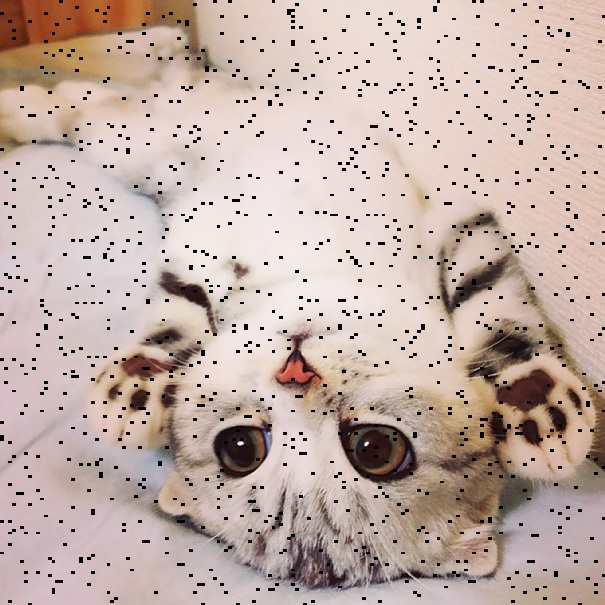
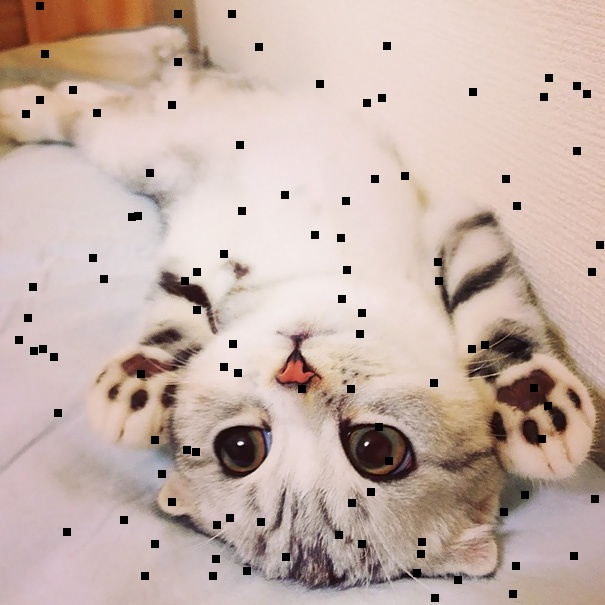
update

diff --git a/index.html b/index.html
@@ -86,6 +86,38 @@ A huge list of many types of data augmentations techniques used for deep learnin
     </li>
     <!----------------------------------------------------------------------------------------------------------------->
     <li class="item_list">
+        <button onclick="show('aug74')">Add Elementwise</button>
+        <div id="aug74" style="display: none;">
+            Add values to the pixels of images with possibly different values for neighbouring pixels.
+            Source: <a target="_blank" href="https://imgaug.readthedocs.io/en/latest/source/overview/arithmetic.html#addelementwise">Imgaug</a><br>
+            <figure>
+                <img src="images/kitty.jpg"> 
+                <figcaption>Original</figcaption>
+            </figure>
+            <figure>
+                <img src="images/kitty_add_elementwise.jpg">
+                <figcaption>Augmentation</figcaption>
+            </figure>  
+        </div>
+    </li>
+    <!----------------------------------------------------------------------------------------------------------------->
+    <li class="item_list">
+        <button onclick="show('aug75')">Additive Laplace Noise</button>
+        <div id="aug75" style="display: none;">
+            Add noise sampled from laplace distributions elementwise to images.
+            Source: <a target="_blank" href="https://imgaug.readthedocs.io/en/latest/source/overview/arithmetic.html#additivelaplacenoise">Imgaug</a><br>
+            <figure>
+                <img src="images/kitty.jpg"> 
+                <figcaption>Original</figcaption>
+            </figure>
+            <figure>
+                <img src="images/kitty_additive_laplace_noise.jpg">
+                <figcaption>Augmentation</figcaption>
+            </figure>  
+        </div>
+    </li>
+    <!----------------------------------------------------------------------------------------------------------------->
+    <li class="item_list">
         <button onclick="show('aug67')">Additive Gaussian Noise</button>
         <div id="aug67" style="display: none;">
             Add noise sampled from gaussian distributions elementwise to images.
@@ -96,6 +128,22 @@ A huge list of many types of data augmentations techniques used for deep learnin
             </figure>
             <figure>
                 <img src="images/kitty_additive_gaussian_noise.jpg">
+                <figcaption>Augmentation</figcaption>
+            </figure>  
+        </div>
+    </li>
+    <!----------------------------------------------------------------------------------------------------------------->
+    <li class="item_list">
+        <button onclick="show('aug76')">Additive Poisson Noise</button>
+        <div id="aug76" style="display: none;">
+            Add noise sampled from poisson distributions elementwise to images.
+            Source: <a target="_blank" href="https://imgaug.readthedocs.io/en/latest/source/overview/arithmetic.html#additivepoissonnoise">Imgaug</a><br>
+            <figure>
+                <img src="images/kitty.jpg"> 
+                <figcaption>Original</figcaption>
+            </figure>
+            <figure>
+                <img src="images/kitty_additive_poisson_noise.jpg">
                 <figcaption>Augmentation</figcaption>
             </figure>  
         </div>
@@ -134,7 +182,7 @@ A huge list of many types of data augmentations techniques used for deep learnin
     </li>
     <!----------------------------------------------------------------------------------------------------------------->
     <li class="item_list">
-        <button onclick="show('aug18')">InvertImg</button>
+        <button onclick="show('aug18')">Invert Image</button>
         <div id="aug18" style="display: none;">
             Invert the input image by subtracting pixel values from 255.
             Source: <a target="_blank" href="https://albumentations.ai/docs/api_reference/augmentations/transforms/#albumentations.augmentations.transforms.InvertImg">Albumentations</a><br>
@@ -150,7 +198,7 @@ A huge list of many types of data augmentations techniques used for deep learnin
     </li>
     <!----------------------------------------------------------------------------------------------------------------->
     <li class="item_list">
-        <button onclick="show('aug17')">ImageCompression</button>
+        <button onclick="show('aug17')">Image Compression</button>
         <div id="aug17" style="display: none;">
             Decrease Jpeg, WebP compression of an image.
             Source: <a target="_blank" href="https://albumentations.ai/docs/api_reference/augmentations/transforms/#albumentations.augmentations.transforms.ImageCompression">Albumentations</a><br>
@@ -176,6 +224,22 @@ A huge list of many types of data augmentations techniques used for deep learnin
             </figure>
             <figure>
                 <img src="images/kitty_multiply.jpg">
+                <figcaption>Augmentation</figcaption>
+            </figure>  
+        </div>
+    </li>
+    <!----------------------------------------------------------------------------------------------------------------->
+    <li class="item_list">
+        <button onclick="show('aug77')">Multiply Elementwise</button>
+        <div id="aug77" style="display: none;">
+            Multiply values of pixels with possibly different values for neighbouring pixels, making each pixel darker or brighter.
+            Source: <a target="_blank" href="https://imgaug.readthedocs.io/en/latest/source/overview/arithmetic.html#multiplyelementwise">Imgaug</a><br>
+            <figure>
+                <img src="images/kitty.jpg"> 
+                <figcaption>Original</figcaption>
+            </figure>
+            <figure>
+                <img src="images/kitty_multiply_elementwise.jpg">
                 <figcaption>Augmentation</figcaption>
             </figure>  
         </div>
@@ -229,8 +293,69 @@ A huge list of many types of data augmentations techniques used for deep learnin
         </div>
     </li>
     <!----------------------------------------------------------------------------------------------------------------->
+    <li class="item_list">
+        <button onclick="show('aug72')">Salt and Papper</button>
+        <div id="aug72" style="display: none;">
+            Replace pixels in images with salt/pepper noise (white/black-ish colors).
+            Source: <a target="_blank" href="https://imgaug.readthedocs.io/en/latest/source/overview/arithmetic.html#saltandpepper">Imgaug</a><br>
+            <figure>
+                <img src="images/kitty.jpg"> 
+                <figcaption>Original</figcaption>
+            </figure>
+            <figure>
+                <img src="images/kitty_salt_and_papper.jpg">
+                <figcaption>Augmentation</figcaption>
+            </figure>
+        </div>
+    </li>
     <!----------------------------------------------------------------------------------------------------------------->
+    <li class="item_list">
+        <button onclick="show('aug73')">Coarse Salt and Papper</button>
+        <div id="aug73" style="display: none;">
+            Replace rectangular areas in images with white/black-ish pixel noise.
+            Source: <a target="_blank" href="https://imgaug.readthedocs.io/en/latest/source/overview/arithmetic.html#coarsesaltandpepper">Imgaug</a><br>
+            <figure>
+                <img src="images/kitty.jpg"> 
+                <figcaption>Original</figcaption>
+            </figure>
+            <figure>
+                <img src="images/kitty_coarse_salt_and_papper.jpg">
+                <figcaption>Augmentation</figcaption>
+            </figure>
+        </div>
+    </li>
     <!----------------------------------------------------------------------------------------------------------------->
+    <li class="item_list">
+        <button onclick="show('aug78')">Replace Elementwise</button>
+        <div id="aug78" style="display: none;">
+            Replace pixels in an image with new values.
+            Source: <a target="_blank" href="https://imgaug.readthedocs.io/en/latest/source/overview/arithmetic.html#replaceelementwise">Imgaug</a><br>
+            <figure>
+                <img src="images/kitty.jpg"> 
+                <figcaption>Original</figcaption>
+            </figure>
+            <figure>
+                <img src="images/kitty_replace_elementwise.jpg">
+                <figcaption>Augmentation</figcaption>
+            </figure>  
+        </div>
+    </li>
+    <!----------------------------------------------------------------------------------------------------------------->
+    <li class="item_list">
+        <button onclick="show('aug79')">Impulse Noise</button>
+        <div id="aug79" style="display: none;">
+            Add impulse noise to images.
+            Source: <a target="_blank" href="https://imgaug.readthedocs.io/en/latest/source/overview/arithmetic.html#impulsenoise">Imgaug</a><br>
+            <figure>
+                <img src="images/kitty.jpg"> 
+                <figcaption>Original</figcaption>
+            </figure>
+            <figure>
+                <img src="images/kitty_impulse_noise.jpg">
+                <figcaption>Augmentation</figcaption>
+            </figure>  
+        </div>
+    </li>
     <!----------------------------------------------------------------------------------------------------------------->
 </ul>
 

diff --git a/images/augmentation.py b/images/augmentation.py
@@ -47,6 +47,18 @@ if __name__ == '__main__':
     if augmentation == 'add':
         transform = iaa.Add((-75, 75))
         transformed_image = transform(image=image)
+    
+    elif augmentation == 'additive_laplace_noise':
+        transform = iaa.AdditiveLaplaceNoise(scale=(0, 0.2*255))
+        transformed_image = transform(image=image)
+
+    elif augmentation == 'additive_poisson_noise':
+        transform = iaa.AdditivePoissonNoise(lam=(0, 40))
+        transformed_image = transform(image=image)
+
+    elif augmentation == 'add_elementwise':
+        transform = iaa.AddElementwise((-75, 75))
+        transformed_image = transform(image=image)
 
     elif augmentation == 'additive_gaussian_noise':
         transform = iaa.AdditiveGaussianNoise(scale=(0, 0.2*255))
@@ -54,6 +66,10 @@ if __name__ == '__main__':
 
     elif augmentation == 'multiply':
         transform = iaa.Multiply((0.1, 2.0))
+        transformed_image = transform(image=image)
+
+    elif augmentation == 'multiply_elementwise':
+        transform = iaa.MultiplyElementwise((0.1, 2.0))
         transformed_image = transform(image=image)
 
     elif augmentation == 'coarse_dropout':
@@ -80,9 +96,29 @@ if __name__ == '__main__':
         transform = iaa.Dropout(p=(0, 0.2))
         transformed_image = transform(image=image)
 
+    elif augmentation == 'total_dropout':
+        transform = iaa.TotalDropout(0.5)
+        transformed_image = transform(image=image)
+
     elif augmentation == 'channel_droput':
         transform = ChannelDropout(always_apply=True)
         transformed_image = transform(image=image)['image']
+
+    elif augmentation == 'salt_and_papper':
+        transform = iaa.SaltAndPepper(0.1)
+        transformed_image = transform(image=image)
+
+    elif augmentation == 'coarse_salt_and_papper':
+        transform = iaa.CoarseSaltAndPepper(0.05, size_percent=(0.01, 0.1))
+        transformed_image = transform(image=image)
+
+    elif augmentation == 'replace_elementwise':
+        transform = iaa.ReplaceElementwise(0.1, [0, 255])
+        transformed_image = transform(image=image)
+
+    elif augmentation == 'impulse_noise':
+        transform = iaa.ImpulseNoise(0.1)
+        transformed_image = transform(image=image)
 
     ## Blur
 
